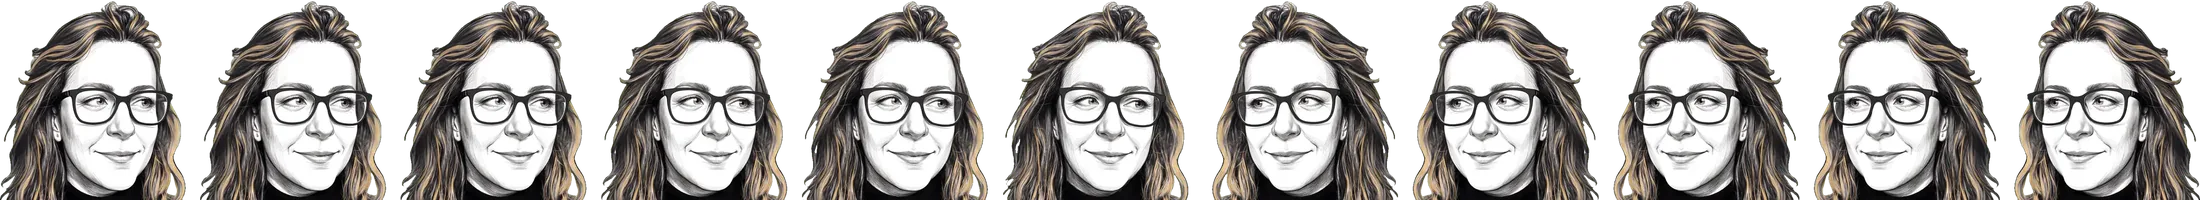
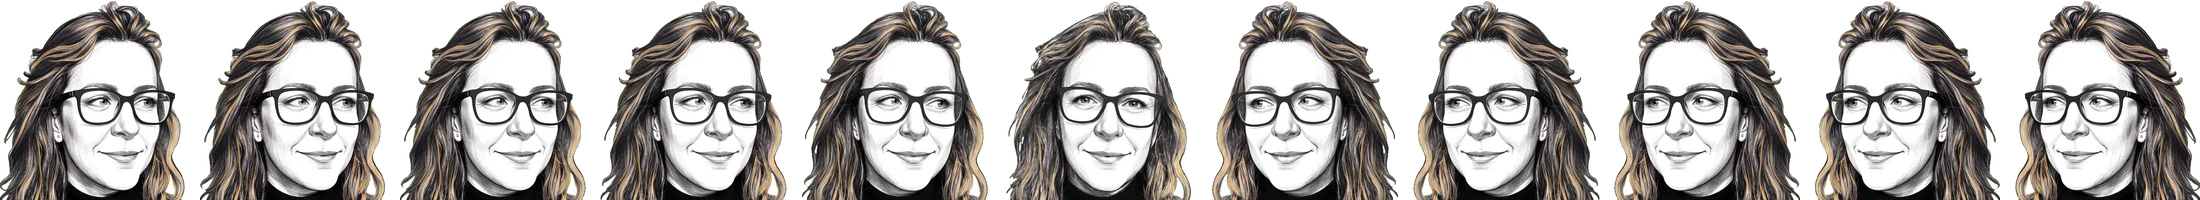
Giro del retrato más fluido

Changed region(s): [[0.6182, 0.0, 1.0, 1.0], [0.0, 0.03, 0.3709, 1.0], [0.4327, 0.0, 0.5564, 1.0]]

diff --git a/src/app/shared/ui/retrato-perfil.component.ts b/src/app/shared/ui/retrato-perfil.component.ts
@@ -1,60 +1,91 @@
-import {
-  ChangeDetectionStrategy, Component, DestroyRef, ElementRef, afterNextRender, inject, signal,
-} from '@angular/core';
+import { ChangeDetectionStrategy, Component, DestroyRef, ElementRef, afterNextRender, inject, viewChild } from '@angular/core';
 
-/** Sprite de 11 fotogramas: 0 = gira a la izquierda, 5 = de frente, 10 = a la derecha. */
-const FRAMES = 11;
+/** Sprite de 25 fotogramas: 0 = gira a la izquierda, 12 = de frente, 24 = a la derecha. */
+const FRAMES = 25;
 const CENTER = (FRAMES - 1) / 2;
 /** Distancia (px) a partir de la cual el retrato deja de reaccionar al cursor. */
-const RADIO = 520;
+const RADIO = 900;
+/** Hasta esta distancia (px) el giro es completo; a partir de ahí se atenúa hasta RADIO. */
+const PLENO = 380;
 
 /**
- * Foto de perfil ilustrada. Gira la cabeza unos grados hacia el cursor solo cuando
- * está cerca; si se aleja, vuelve suavemente al frente. Sin movimiento en táctil
- * ni con prefers-reduced-motion.
+ * Foto de perfil ilustrada que gira la cabeza hacia el cursor cuando está cerca.
+ * - Mezcla dos fotogramas contiguos según la posición decimal, así el giro es continuo y no a saltos.
+ * - Muelle amortiguado para que arranque y frene con naturalidad.
+ * - Ligera inclinación y desplazamiento que acompañan al giro.
+ * Sin movimiento en pantallas táctiles ni con prefers-reduced-motion.
  */
 @Component({
   selector: 'app-retrato-perfil',
   standalone: true,
   changeDetection: ChangeDetectionStrategy.OnPush,
-  template: `<span class="retrato" role="img" aria-label="Retrato ilustrado de Cristina Martínez Franganillo"
-    [style.background-position-x.%]="frame() / (total - 1) * 100"></span>`,
+  template: `
+    <span class="retrato" #rig role="img" aria-label="Retrato ilustrado de Cristina Martínez Franganillo">
+      <span class="f a"></span><span class="f b"></span>
+    </span>`,
   styles: [`
     :host{display:inline-block;width:var(--perfil-size,88px);aspect-ratio:1;flex:none;border-radius:50%;
       background:var(--ultra-soft);border:1px solid var(--rule);overflow:hidden;
       box-shadow:0 0 0 4px var(--sheet),0 12px 24px -16px color-mix(in srgb,var(--ultra) 60%,transparent)}
-    .retrato{display:block;width:100%;height:100%;
-      background:url('/retrato-perfil.webp') 0 0 / ${FRAMES * 100}% 100% no-repeat}
+    .retrato{position:relative;display:block;width:100%;height:100%;transform-origin:50% 85%;
+      --fa:${CENTER};--fb:${CENTER};--mix:0;--tilt:0;
+      transform:translateX(calc(var(--tilt) * 3%)) rotate(calc(var(--tilt) * 2.5deg))}
+    .f{position:absolute;inset:0;background:url('/retrato-perfil.webp') 0 0 / ${FRAMES * 100}% 100% no-repeat}
+    .a{background-position-x:calc(var(--fa) / ${FRAMES - 1} * 100%)}
+    .b{background-position-x:calc(var(--fb) / ${FRAMES - 1} * 100%);opacity:var(--mix)}
   `],
 })
 export class RetratoPerfilComponent {
-  readonly total = FRAMES;
-  readonly frame = signal(CENTER);
   private readonly host = inject<ElementRef<HTMLElement>>(ElementRef);
+  private readonly rig = viewChild.required<ElementRef<HTMLElement>>('rig');
 
   constructor() {
     const destroyRef = inject(DestroyRef);
     afterNextRender(() => {
       if (matchMedia('(prefers-reduced-motion: reduce), (hover: none)').matches) return;
-      let target = CENTER, current = CENTER, raf = 0;
+      const el = this.rig().nativeElement;
+      let target = CENTER, pos = CENTER, vel = 0, last = 0, raf = 0;
 
-      const loop = () => {
-        current += (target - current) * 0.1;
-        const f = Math.round(current);
-        if (f !== this.frame()) this.frame.set(f);
-        raf = Math.abs(target - current) > 0.02 ? requestAnimationFrame(loop) : 0;
+      const pintar = () => {
+        const fa = Math.floor(pos);
+        let mix = pos - fa;
+        // El fotograma central es otro dibujo: ahí se corta sin mezclar para evitar el efecto «doble».
+        // En el resto se mezcla solo en la franja central, así nunca se ven dos caras a la vez mucho rato.
+        if (fa === CENTER - 1 || fa === CENTER) mix = mix < 0.5 ? 0 : 1;
+        else { const m = Math.min(1, Math.max(0, (mix - 0.3) / 0.4)); mix = m * m * (3 - 2 * m); }
+        el.style.setProperty('--fa', String(fa));
+        el.style.setProperty('--fb', String(Math.min(FRAMES - 1, fa + 1)));
+        el.style.setProperty('--mix', mix.toFixed(3));
+        el.style.setProperty('--tilt', ((pos - CENTER) / CENTER).toFixed(3));
+      };
+      // Muelle crítico: rigidez k, amortiguación 2·√k → sin rebote, frenada suave
+      const loop = (t: number) => {
+        const dt = Math.min(0.05, (t - (last || t)) / 1000); last = t;
+        const k = 60, c = 2 * Math.sqrt(k);
+        vel += (k * (target - pos) - c * vel) * dt;
+        pos = Math.max(0, Math.min(FRAMES - 1, pos + vel * dt));
+        pintar();
+        if (Math.abs(target - pos) > 0.005 || Math.abs(vel) > 0.01) raf = requestAnimationFrame(loop);
+        else { raf = 0; last = 0; }
       };
       const move = (e: PointerEvent) => {
         const r = this.host.nativeElement.getBoundingClientRect();
         const dx = e.clientX - (r.left + r.width / 2);
         const dy = e.clientY - (r.top + r.height / 2);
-        const cerca = Math.max(0, 1 - Math.hypot(dx, dy) / RADIO);     // 1 encima, 0 lejos
-        const lado = Math.max(-1, Math.min(1, dx / 220));
+        const d = Math.min(1, Math.max(0, (Math.hypot(dx, dy) - PLENO) / (RADIO - PLENO)));
+        const cerca = 1 - d * d * (3 - 2 * d);                          // pleno cerca, se apaga suave lejos
+        const lado = Math.tanh(dx / 260);                               // gira deprisa al principio y satura con calma
         target = CENTER + lado * CENTER * cerca;
         if (!raf) raf = requestAnimationFrame(loop);
       };
+      const salir = () => { target = CENTER; if (!raf) raf = requestAnimationFrame(loop); };
       window.addEventListener('pointermove', move, { passive: true });
-      destroyRef.onDestroy(() => { window.removeEventListener('pointermove', move); cancelAnimationFrame(raf); });
+      document.documentElement.addEventListener('pointerleave', salir);
+      destroyRef.onDestroy(() => {
+        window.removeEventListener('pointermove', move);
+        document.documentElement.removeEventListener('pointerleave', salir);
+        cancelAnimationFrame(raf);
+      });
     });
   }
 }
